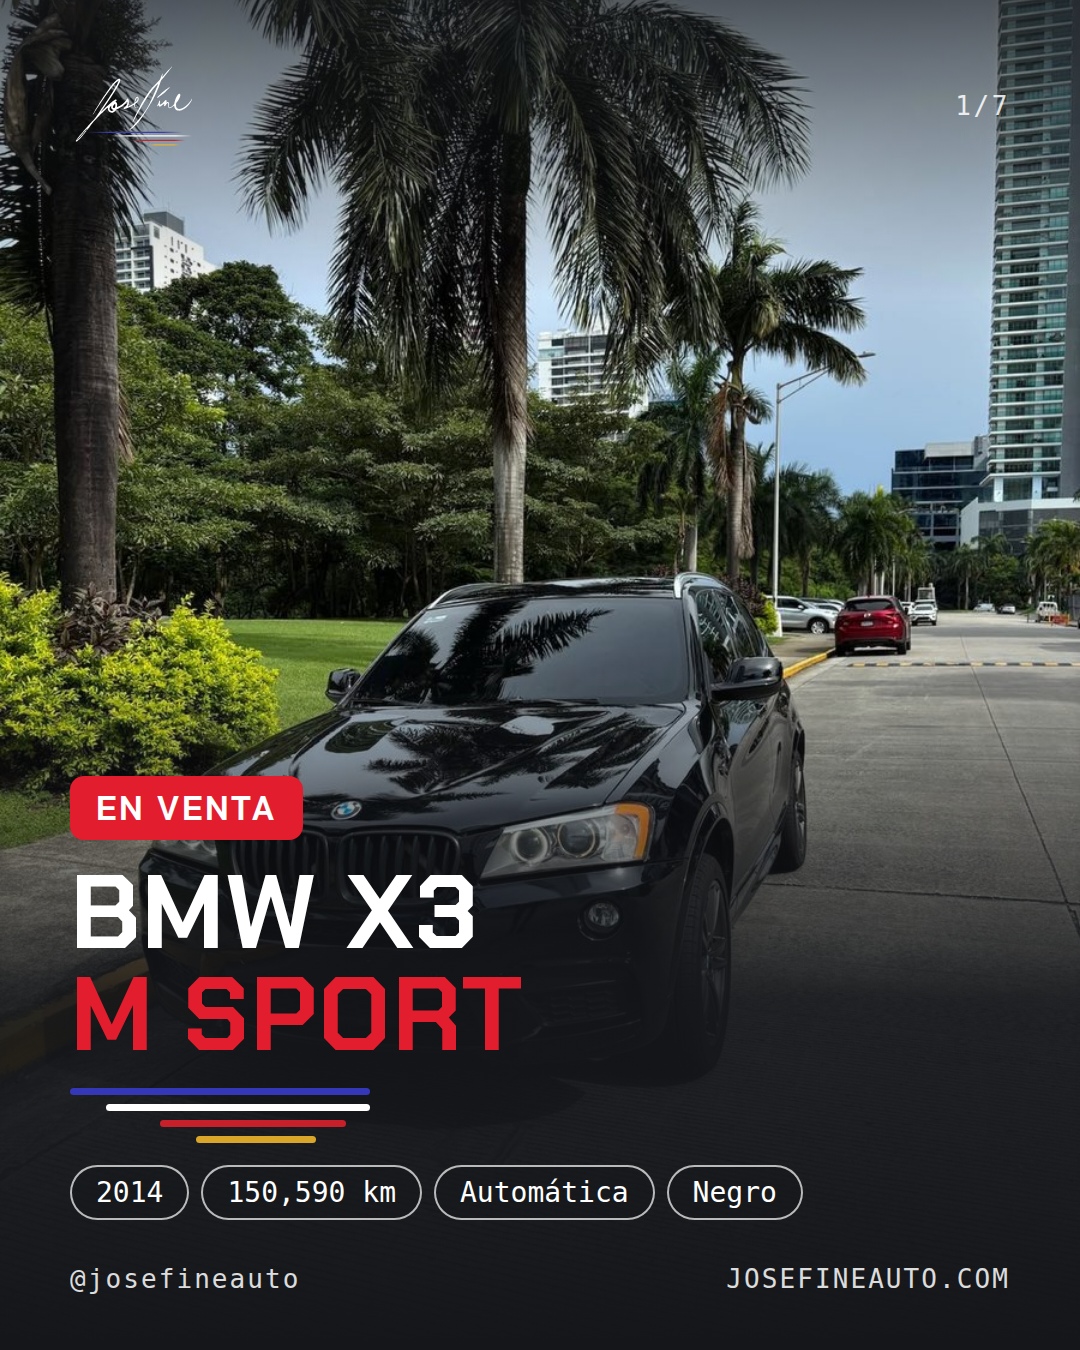
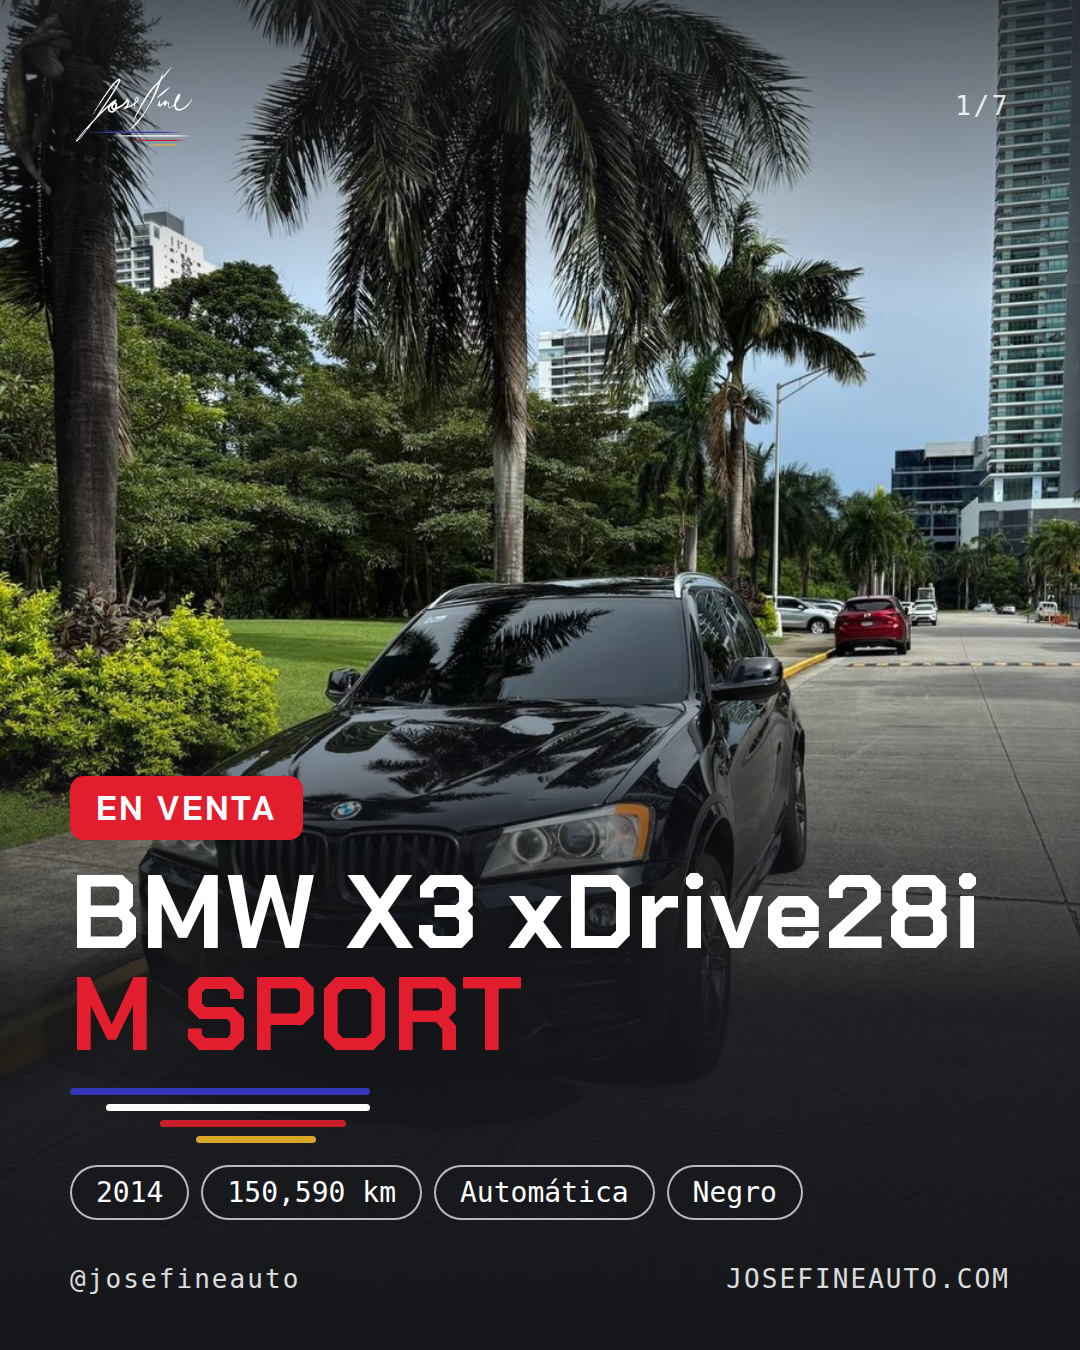
Post X3: xDrive28i en el título y sin chip de emblema M
Claude-Session: https://claude.ai/code/session_01Waia73eHNWtSrif5AzmwHD

Changed region(s): [[0.4583, 0.6222, 0.9167, 0.7156]]

diff --git a/herramientas/build/generar-post-x3.js b/herramientas/build/generar-post-x3.js
@@ -1,5 +1,5 @@
-/* Carrusel de venta: BMW X3 M Sport 2014. 7 láminas 1080x1350.
-   Solo datos dados por el dueño (modelo y año, 2026-10-14) o visibles en las fotos (km del tablero, emblemas M,
+/* Carrusel de venta: BMW X3 xDrive28i M Sport 2014 (xDrive28i dado por el dueño). 7 láminas 1080x1350.
+   Solo datos dados por el dueño (modelo y año, 2026-10-14) o visibles en las fotos (km del tablero, insignias M Sport,
    levas, doble escape, motor TwinPower Turbo); placa real tapada con la de Josefine; precio solo por DM.
    Uso: NODE_PATH=<node_modules con playwright> node herramientas/build/generar-post-x3.js [chakra-petch-700.ttf]
    Salida: web/kit/img/post7-x3-XX.png */
@@ -51,12 +51,12 @@ const T = 7;
 
 const LAMINAS = [
   `<div class="s"><div class="bg" style="background-image:url('${foto(1)}');background-position:center 70%"></div><div class="velo"></div>${top(`1/${T}`)}
-    <div class="txt"><span class="tag">En venta</span><h1>BMW X3<br><em>M Sport</em></h1>${F}
+    <div class="txt"><span class="tag">En venta</span><h1>BMW X3 <span style="text-transform:none">xDrive28i</span><br><em>M Sport</em></h1>${F}
     <div class="chips"><span>2014</span><span>150,590 km</span><span>Automática</span><span>Negro</span></div></div>${pie}</div>`,
   `<div class="s"><div class="bg" style="background-image:url('${foto(2)}');background-position:center 70%"></div><div class="velo"></div>${top(`2/${T}`)}
     <div class="txt"><div class="chips"><span>Paquete M Sport</span><span>Rines oscuros</span></div></div>${pie}</div>`,
   `<div class="s"><div class="dos"><div style="background-image:url('${foto(3)}')"></div><div style="background-image:url('${foto(4)}')"></div></div><div class="velo"></div>${top(`3/${T}`)}
-    <div class="txt"><div class="chips"><span>Doble salida de escape</span><span>Emblema M</span></div></div>${pie}</div>`,
+    <div class="txt"><div class="chips"><span>Doble salida de escape</span></div></div>${pie}</div>`,
   `<div class="s"><div class="dos"><div style="background-image:url('${foto(6)}')"></div><div style="background-image:url('${foto(7)}')"></div></div><div class="velo"></div>${top(`4/${T}`)}
     <div class="txt"><div class="chips"><span>Volante M con levas</span><span>Interior negro</span><span>Pantalla con mapa</span></div></div>${pie}</div>`,
   `<div class="s"><div class="dos"><div style="background-image:url('${foto(8)}')"></div><div style="background-image:url('${foto(9)}')"></div></div><div class="velo"></div>${top(`5/${T}`)}

diff --git a/web/kit/index.html b/web/kit/index.html
@@ -51,8 +51,8 @@
   (function () {
     var WEB = "josefineauto.com";
     var POSTS = [
-      { id: "post7-x3", n: 7, semana: "HOY · En venta", titulo: "BMW X3 M Sport 2014",
-        texto: "EN VENTA 🔥 BMW X3 M Sport 2014\n\n📍 Panamá · 150,590 km · Automática\n\n✅ Paquete M Sport\n✅ Volante M con levas\n✅ Doble salida de escape\n✅ Motor TwinPower Turbo\n✅ Interior negro\n\n💬 Precio por DM\n👇 Comenta X3 y te escribimos\n🌐 " + WEB + "\n\n#bmw #bmwx3 #msport #carrospanama #autospanama #panama #josefineauto" },
+      { id: "post7-x3", n: 7, semana: "HOY · En venta", titulo: "BMW X3 xDrive28i M Sport 2014",
+        texto: "EN VENTA 🔥 BMW X3 xDrive28i M Sport 2014\n\n📍 Panamá · 150,590 km · Automática\n\n✅ Paquete M Sport\n✅ Volante M con levas\n✅ Doble salida de escape\n✅ Motor TwinPower Turbo\n✅ Interior negro\n\n💬 Precio por DM\n👇 Comenta X3 y te escribimos\n🌐 " + WEB + "\n\n#bmw #bmwx3 #msport #carrospanama #autospanama #panama #josefineauto" },
       { id: "post6-100", n: 1, semana: "HOY · Gracias (1 imagen)", titulo: "¡Gracias! 100 seguidores",
         texto: "¡Llegamos a 100! 🏁🙌\n\nGracias a cada uno de ustedes por seguirnos, por cada like, cada comentario y cada DM. Para un proyecto que empieza, esto vale muchísimo.\n\nY esto apenas arranca: vienen más carros, más proyectos y más contenido.\n\n¿Buscas un auto en particular? Escríbenos y te lo conseguimos.\n¿Vendes tu deportivo? Te lo vendemos.\n\n👇 Cuéntanos en los comentarios: ¿qué carro quieres ver en la página?\n🌐 " + WEB + "\n\n#josefineauto #100seguidores #gracias #carrospanama #autospanama #panama #carculture",
         nota: "Para tu historia usa la versión vertical: josefineauto.com/kit/img/post6-100-historia.png (mantén el dedo → Guardar imagen). Responde cada comentario." },
